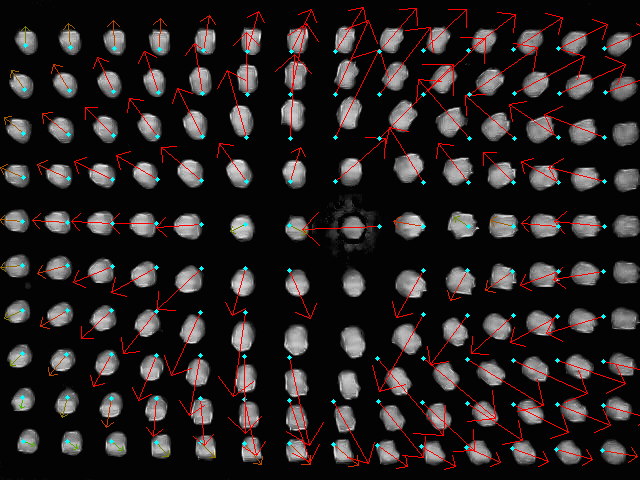
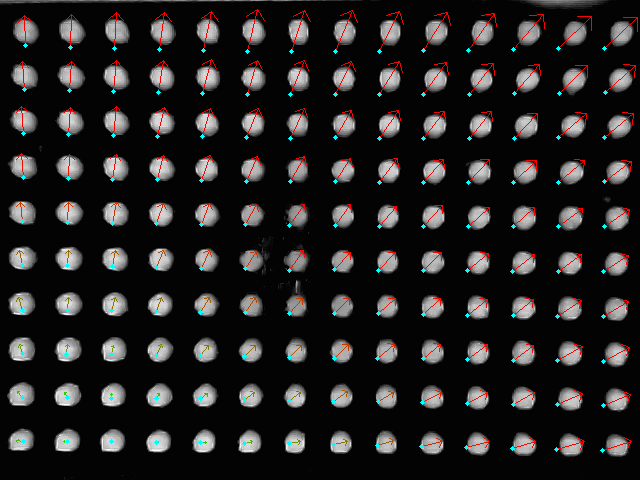
center point

diff --git a/src/tracking.py b/src/tracking.py
@@ -16,16 +16,37 @@ def match_markers_robust(
     def_points: np.ndarray,
     img_shape: tuple[int, int],
     max_disp: float = 60.0,
+    force_center: np.ndarray = None,
 ) -> tuple[np.ndarray, np.ndarray]:
-    """Tìm tương ứng marker từ ảnh tham chiếu sang ảnh biến dạng bằng Hungarian."""
+    """Tìm tương ứng marker từ ảnh tham chiếu sang ảnh biến dạng bằng Hungarian.
+    Có thể truyền vào force_center (tâm lực nhấn) nếu có. Nếu không, thuật toán
+    sẽ tự động xác định thông qua một lần chạy Hungarian thô (2-pass).
+    """
     if ref_points.size == 0 or def_points.size == 0:
         return ref_points.copy(), np.zeros(len(ref_points), dtype=bool)
 
-    h, w = img_shape[:2]
-    center = np.array([w / 2.0, h / 2.0], dtype=np.float32)
+    # Ma trận khoảng cách Euclidean cơ bản
+    D_base = distance_matrix(ref_points, def_points)
 
-    # Ma trận khoảng cách Euclidean
-    D = distance_matrix(ref_points, def_points)
+    if force_center is None:
+        # Pass 1: Chạy Hungarian thô không có ràng buộc lực để tìm các vector dịch chuyển
+        row_ind_raw, col_ind_raw = linear_sum_assignment(D_base)
+        
+        # Lấy các vector dịch chuyển
+        disps_raw = def_points[col_ind_raw] - ref_points[row_ind_raw]
+        disp_mags = np.linalg.norm(disps_raw, axis=1)
+        
+        # Tự động tìm tâm lực: lấy tọa độ trung bình của top 10% các điểm dịch chuyển mạnh nhất
+        # (Khi bị nhấn, vùng quanh tâm lực sẽ có chuyển động lớn nhất)
+        n_top = max(1, int(len(disp_mags) * 0.1))
+        top_indices = np.argsort(disp_mags)[-n_top:]
+        
+        # Tâm lực tự động là trung bình của các điểm biến dạng mạnh nhất
+        center = np.mean(ref_points[row_ind_raw[top_indices]], axis=0)
+    else:
+        center = np.array(force_center, dtype=np.float32)
+
+    D = D_base.copy()
 
     # Ràng buộc vật lý: Khi bị nén/nhấn, marker tỏa ra từ tâm (Radial Expansion)
     # Ta thêm hình phạt (penalty) nặng cho các chuyển động hướng ngược vào trong.
@@ -34,10 +55,11 @@ def match_markers_robust(
     norms[norms < 1e-5] = 1.0
     radial_dirs = radial_dirs / norms
 
-    # Vector dịch chuyển: (N, M, 2)
-    disps = def_points[None, :, :] - ref_points[:, None, :]
-    # Tính tích vô hướng để xem hướng di chuyển: (N, M)
-    dot_prods = np.sum(disps * radial_dirs[:, None, :], axis=2)
+    # Tính tích vô hướng tối ưu bằng phép nhân ma trận thay vì dùng mảng 3D
+    # (N, 2) @ (2, M) -> (N, M)
+    # def_points.T có shape (2, M)
+    # Phép tính tương đương: (def_points - ref_points) @ radial_dirs
+    dot_prods = radial_dirs @ def_points.T - np.sum(ref_points * radial_dirs, axis=1, keepdims=True)
 
     # Áp dụng penalty nếu dot_prod âm (chuyển động hướng vào tâm quá mức)
     inward_mask = dot_prods < -2.0  # Cho phép nhiễu dịch chuyển nhỏ ~2px

diff --git a/src/main.py b/src/main.py
@@ -8,12 +8,12 @@ from .pipeline import PipelineConfig, TactileMarkerTrackingPipeline
 def parse_args() -> argparse.Namespace:
     parser = argparse.ArgumentParser(description="Run tactile marker tracking pipeline")
     parser.add_argument("--ref-image", default="data/ref/my_photo_1.jpg", help="Path to reference image")
-    parser.add_argument("--def-image", default="data/img/my_photo_2.jpg", help="Path to deformed image")
+    parser.add_argument("--def-image", default="data/img/my_photo_4.png", help="Path to deformed image")
     parser.add_argument("--output-dir", default="outputs", help="Directory for generated outputs")
     parser.add_argument(
         "--arrow-scale",
         type=float,
-        default=3.0,
+        default=2.0,
         help="Scale factor for displacement arrows",
     )
     return parser.parse_args()

diff --git a/src/pipeline.py b/src/pipeline.py
@@ -16,9 +16,9 @@ from .visualization import visualize_flow_arrows, visualize_flow_hsv
 @dataclass
 class PipelineConfig:
     ref_image_path: str = "data/ref/my_photo_1.jpg"
-    def_image_path: str = "data/img/my_photo_2.jpg"
+    def_image_path: str = "data/img/sample_0010.png"
     output_dir: str = "outputs"
-    arrow_scale: float = 3.0
+    arrow_scale: float = 1.0
 
 
 class TactileMarkerTrackingPipeline:

diff --git a/src/visualization.py b/src/visualization.py
@@ -13,7 +13,7 @@ def visualize_flow_arrows(
     ref_pts: np.ndarray,
     def_pts: np.ndarray,
     valid: np.ndarray,
-    scale: float = 3.0,
+    scale: float = 2.0,
     save_path: str | None = None,
 ) -> np.ndarray:
     """Vẽ mũi tên từ vị trí tham chiếu đến vị trí đã biến dạng (có scale)."""
